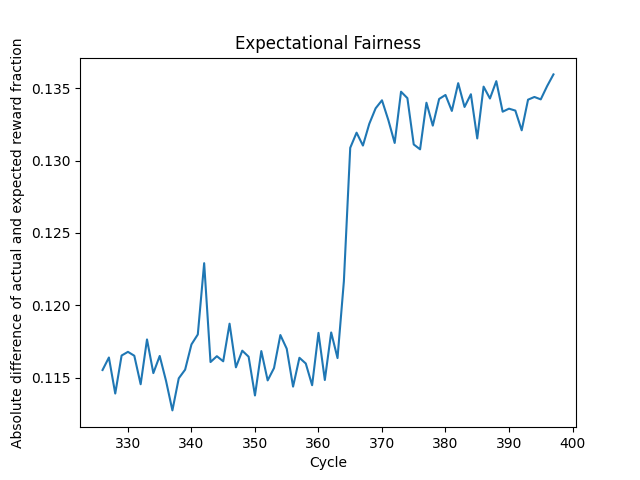
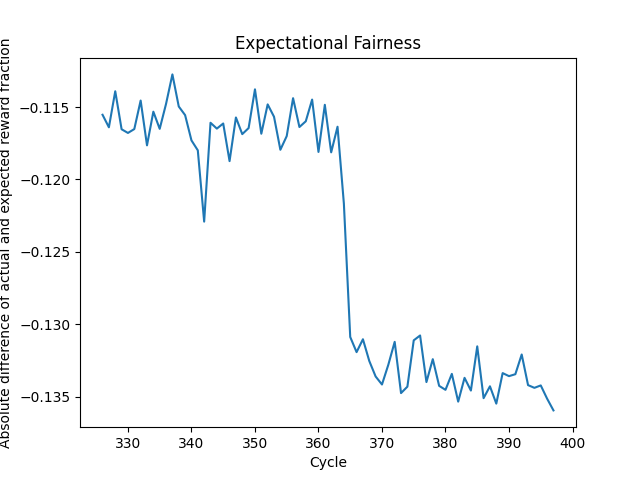
Make difference instead of absolute difference for exp. fairness

diff --git a/tezos_analysis.py b/tezos_analysis.py
@@ -261,10 +261,8 @@ def plot_income_rewards_gini_index(start, end):
 
 
 def compute_fractions(start, end, baker):
-    """Currently works for 2 cycles and 1 specific baker -> make it work for all bakers and all cycles
-    current baker: 'tz3RDC3Jdn4j15J7bBHZd29EUee9gVB1CxD9' """
+    """Currently works for 2 cycles and 1 specific baker"""
     rewards = []
-    # TODO: try this also out for all addresses -> drop the where address= "x" part
     rews = cur.execute('select total_income from income_table where address '
                        '="%s" and cycle >= %s and cycle <= %s' % (baker,
                                                                   start, end)).fetchall()
@@ -327,7 +325,7 @@ def compute_fraction_all_bakers_one_cycle(cycle):
     # Fractions: array of length n, where each entry divides rewards[i]/total_rewards[i] for i = 1 to n
     fractions = []
     expected = []
-    for c in range(0, n):  # for all the bakers compute the fractions # TODO: change this back to n
+    for c in range(0, n):  # for all the bakers compute the fractions
         frac_c = rewards[c] / total_reward
         fractions.append(frac_c)
         exp_c = initial_rewards[c] / initial_total
@@ -336,29 +334,27 @@ def compute_fraction_all_bakers_one_cycle(cycle):
 
 
 def plot_expectational_fairness(start, end, baker):
-    # TODO: make this work for multiple multiple bakers
     """the expectation of the fraction of the reward that baker A receives of the total reward should be equal to his
     initial resource a --> on x axis we have the number of blocks/cycles and on the y axis the fraction of the total
-    reward, and another line x_a for the initial resource, start: startcycle/startblock, end: endcycle/endblock
-    currently used address: address = 'tz3RDC3Jdn4j15J7bBHZd29EUee9gVB1CxD9'"""
+    reward, and another line x_a for the initial resource, start: startcycle/startblock, end: endcycle/endblock"""
     x_data = list((range(start, end + 1)))
-    y_data, y2_data = compute_fractions(start, end, baker)
+    y_data, y2_data = compute_fractions(start, end, baker) # TODO: here show absolute fractions -> absolute differences
     plt.plot(x_data, y_data, label='Fraction of resource actual')
     plt.plot(x_data, y2_data, label='Fraction of initial resource (expected)')
     plt.legend()
     plt.xlabel('Cycle')
     plt.ylabel('Fraction of reward')
-    plt.title('Expectational Fairness')
-    plt.savefig('images/expectational_fairness_' + str(start) + '_' + str(end) + '.png')
+    plt.title('Expectational Fairness baker' + baker)
+    plt.savefig('images/expectational_fairness_onebaker_' + str(start) + '_' + str(end) + 'baker_'+ baker + '.png')
     plt.close()
 
 
 def compute_difference(actual, expected):
-    """Computes absolute difference array of the actual and expected values"""
+    """Computes difference array of the actual and expected values"""
     differences = []
     n = len(actual)
     for c in range(0, n):
-        diff_c = np.abs(actual[c] - expected[c])
+        diff_c = (actual[c] - expected[c])
         differences.append(diff_c)
     return differences
 
@@ -464,14 +460,14 @@ def plot_expecational_fairness_all_bakers_overview(start, end, lowest_x, lowest_
     y1_data = y1_highest
     plt.plot(x_data, y1_data, '.', color='black', label='highest ' + str(highest_x)+' percent')
     y2_data = y2_lowest
-    plt.plot(x_data, y2_data, '.', color='green', label='highest ' + str(lowest_x) + ' percent')
+    # plt.plot(x_data, y2_data, '.', color='green', label='highest ' + str(lowest_x) + ' percent')
     y3_data = y3_lowest
     plt.plot(x_data, y3_data, '.', color='blue', label='lowest ' + str(lowest_x2) + ' percent')
     y4_data = compute_fairness_percentages_average_all_cycles(start, end)
     plt.plot(x_data, y4_data, '.', color='red', label='average')
     plt.legend()
     plt.title('Expectational Fairness from cycle ' + str(start) + ' to ' + str(end))
-    plt.savefig('images/expectational_fairness_cycles' + str(start) + '_' + str(end) + '_overview' + '.png')
+    plt.savefig('images/expectational_fairness_cycles_' + str(start) + '_' + str(end) + '_overview' + '.png')
     plt.close()
 
 
@@ -509,8 +505,8 @@ def plot_expectational_fairness_difference(start, end, baker):
     # y_data is absolute difference of expected and actual value
     plt.plot(x_data, y_data)
     plt.xlabel('Cycle')
-    plt.ylabel('Absolute difference of actual and expected reward fraction')
-    plt.title('Expectational Fairness')
+    plt.ylabel('Absolute difference actual and expected reward fraction')
+    plt.title('Exp. Fairness Diff. Baker ' + baker)
     plt.savefig('images/expectational_fairness_difference_' + str(start) + '_' + str(end) + '_baker_' + baker + '.png')
     plt.close()
 
@@ -627,37 +623,28 @@ if __name__ == '__main__':
 
     # Expectational Fairness
     baker = "tz3RDC3Jdn4j15J7bBHZd29EUee9gVB1CxD9"
-    # TODO: make plot expectational fairness first for only 1 specific baker -> make it work for all bakers
-    plot_expectational_fairness(0, 396, baker)
+    baker_2 = 'tz3NExpXn9aPNZPorRE4SdjJ2RGrfbJgMAaV'
+    plot_expectational_fairness(0, 8, baker)
     for start, end in zip(start_cycles, end_cycles):
         plot_expectational_fairness(start, end, baker)
 
-    # expectational fairness with absolute difference of expected and actual reward difference on y axis
-    plot_expectational_fairness_difference(0, 396, baker)
-    for start, end in zip(start_cycles, end_cycles):
-        plot_expectational_fairness_difference(start, end, baker)
+    # expectational fairness with difference of expected and actual reward difference on y axis
+    plot_expectational_fairness_difference(0, 8, baker)
+    plot_expectational_fairness_difference(0, 8, baker_2)
+    # for start, end in zip(start_cycles, end_cycles):
+    #     plot_expectational_fairness_difference(start, end, baker)
 
-    baker_2 = 'tz3NExpXn9aPNZPorRE4SdjJ2RGrfbJgMAaV'
-    plot_expectational_fairness_difference(0, 396, baker_2)
-
-    # TODO: do the same for rolls? Assumed that the "stake" is the initial reward that the bakers have at cycle 0
-
-    # Robust fairness (we fix delta and a specific cycle and find epsilon)
-    plot_robust_fairness(1)  # we look at cycle 1 as there we have the same bakers as in cycle 0
-    plot_robust_fairness(5)
-    # plot_robust_fairness(150) # TODO: take only the bakers that are always active -> not
-    #  possible to compare as more bakers are there plot_robust_fairness(baker, 200)
-
-    # TODO: try this expectational fairness plot with a different baker, for example baker_2 and take absolute difference values (can go below 0)
-    plot_expectational_fairness_all_bakers_cycles_average(0, 398)
     plot_expectational_fairness_all_bakers_cycles_average(0, 8)
 
     # highest x percent
     plot_expectational_fairness_all_bakers_cycles_highest_x_percent(0, 8, 0.1)
-    plot_expectational_fairness_all_bakers_cycles_highest_x_percent(0, 8, 0.2)
     plot_expectational_fairness_all_bakers_cycles_highest_x_percent(0, 398, 0.1)
     # expectational fairness plot for cycles 0 to 8, with average, highest 30%, lowest 10%, lowest 25%
-    plot_expecational_fairness_all_bakers_overview(0, 8, 0.2, 0.25, 0.3)
+    plot_expecational_fairness_all_bakers_overview(0, 8, 0.1, 0.25, 0.3)
+
+    # Robust fairness (we fix delta and a specific cycle and find epsilon)
+    plot_robust_fairness(1)  # we look at cycle 1 as there we have the same bakers as in cycle 0
+    plot_robust_fairness(5)
 
     # Close connection
     con.close()
